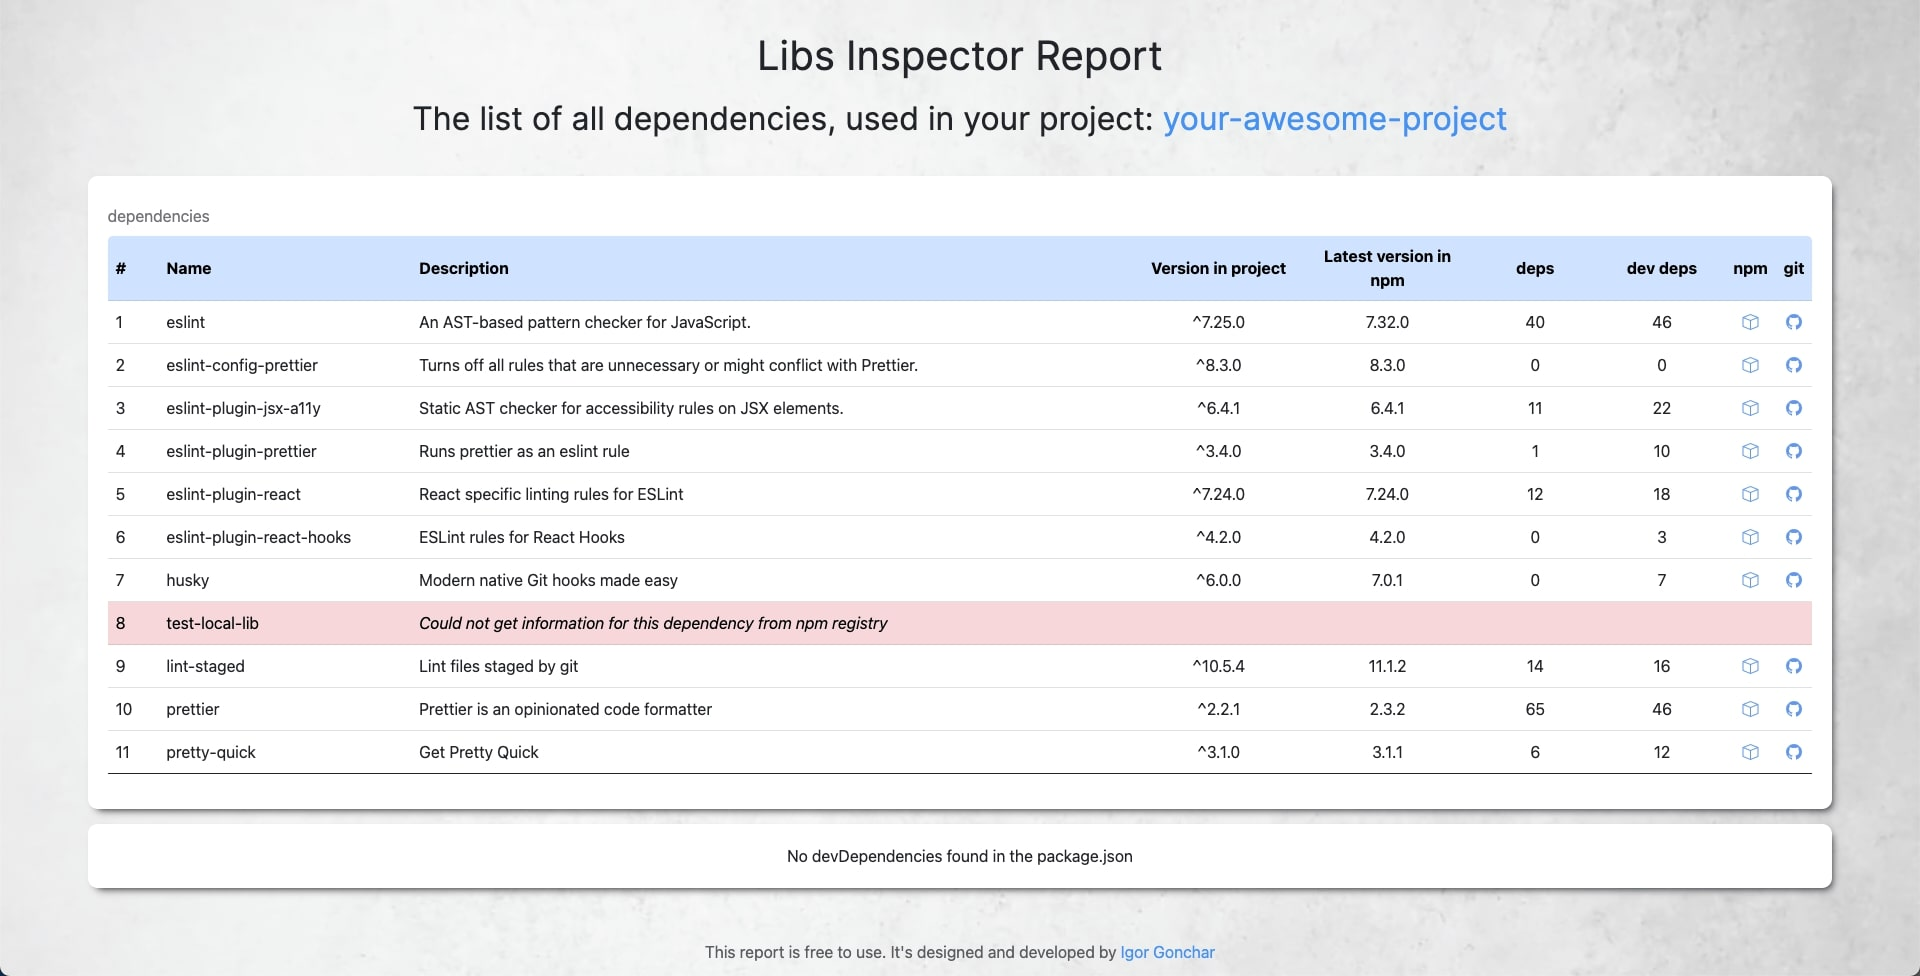
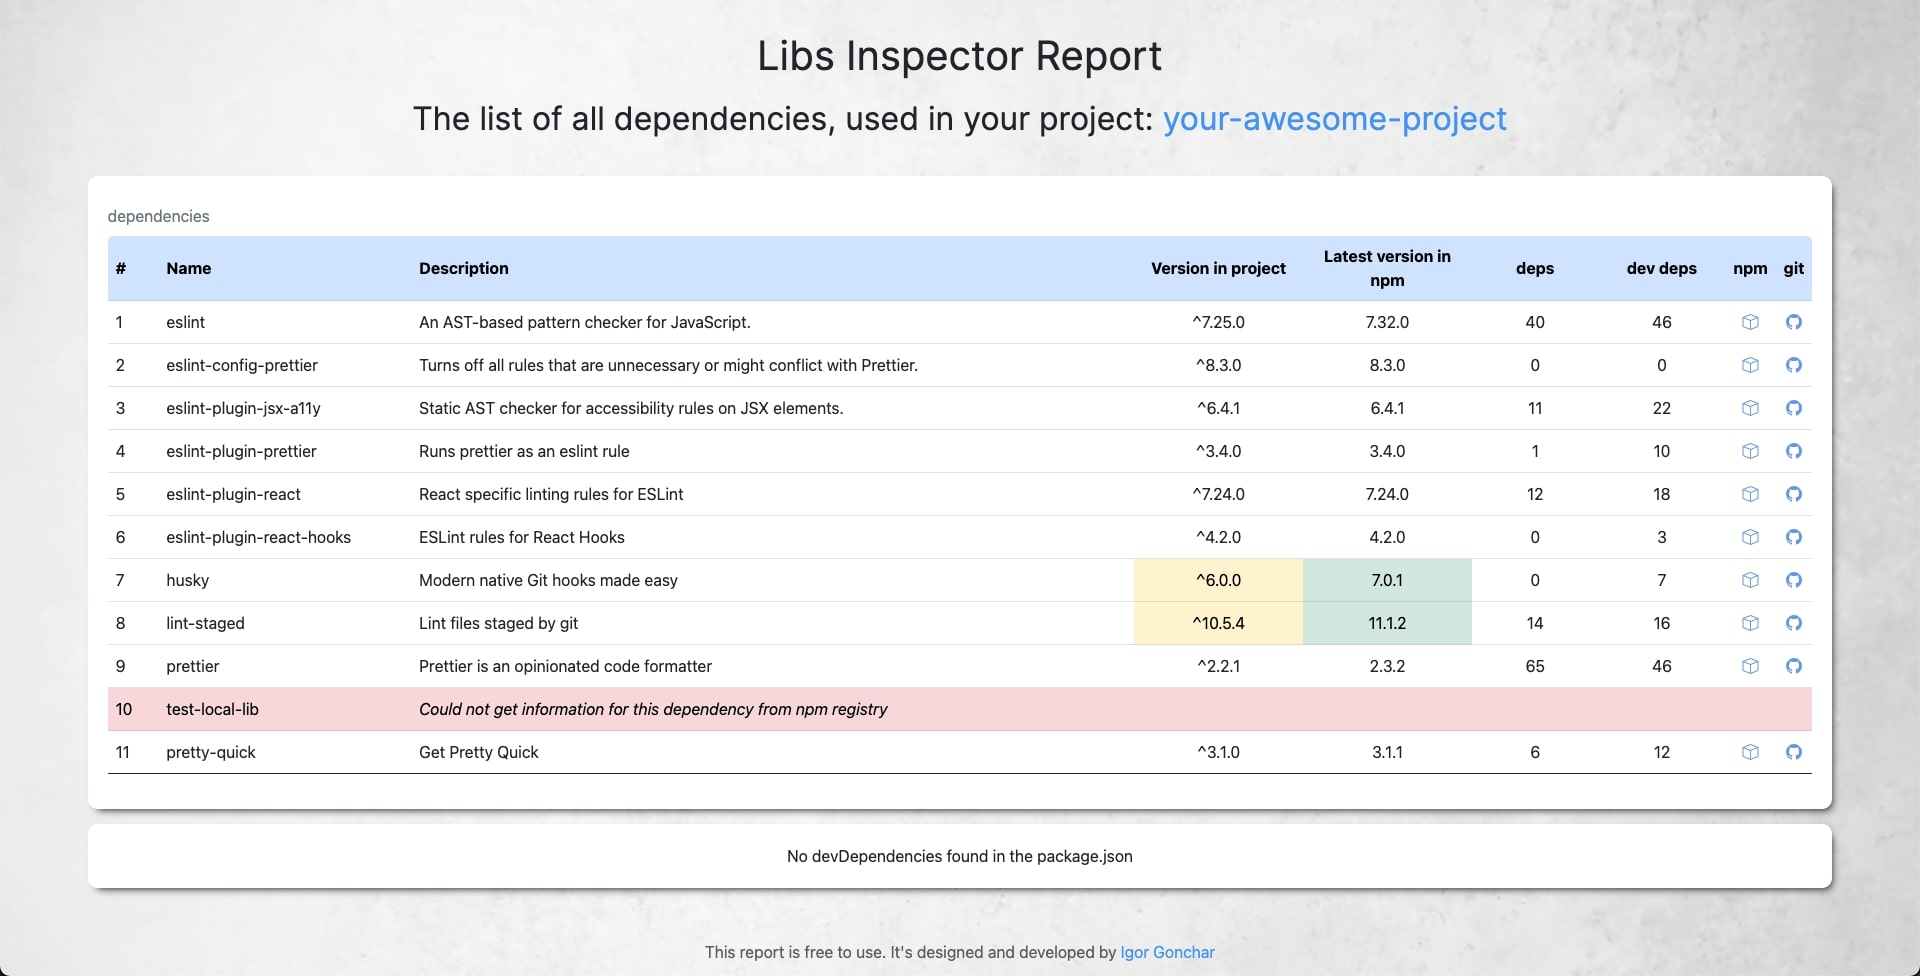
semver comparison was added

Changed region(s): [[0.0312, 0.5533, 0.9688, 0.7684]]

diff --git a/example/report.js b/example/report.js
@@ -1,4 +1,5 @@
 const localJsonFile = "./example/data.json";
+const semverRegExp = /^([\^~])?(0|[1-9]\d*)\.(0|[1-9]\d*)\.(0|[1-9]\d*)(?:-((?:0|[1-9]\d*|\d*[a-zA-Z-][0-9a-zA-Z-]*)(?:\.(?:0|[1-9]\d*|\d*[a-zA-Z-][0-9a-zA-Z-]*))*))?(?:\+([0-9a-zA-Z-]+(?:\.[0-9a-zA-Z-]+)*))?$/;
 
 window.addEventListener("DOMContentLoaded", async () => {
     const tooltipTriggerList = [].slice.call(document.querySelectorAll('[data-bs-toggle="tooltip"]'))
@@ -76,6 +77,13 @@ function insertTableRow(table, dependencyName, dependencyData, index) {
         cell3.innerHTML = dependencyData.description;
         cell4.innerHTML = dependencyData.usedVersion;
         cell5.innerHTML = dependencyData.latestVersion;
+
+        const isMajorVersionOutdated = compareSemverVersions(dependencyData.usedVersion, dependencyData.latestVersion);
+        if (isMajorVersionOutdated) {
+            cell4.classList.add('table-warning');
+            cell5.classList.add('table-success');
+        }
+
         cell6.innerHTML = getDependenciesAmount(dependencyData.dependencies);
         cell7.innerHTML = getDependenciesAmount(dependencyData.devDependencies);
         cell8.innerHTML = `<a href="${dependencyData.links.npm}" target="_blank"><i class="bi bi-box" style="color: cornflowerblue; cursor: pointer"></i></a>`;
@@ -97,4 +105,22 @@ function getDependenciesAmount(dependencies) {
     }
 
     return Object.keys(dependencies).length.toString();
+}
+
+function compareSemverVersions(userPackage, globalPackage) {
+    const isUserPackageValidSemver = checkValidityOfSemver(userPackage);
+    const isGlobalPackageValidSemver = checkValidityOfSemver(globalPackage);
+
+    if (!isUserPackageValidSemver || !isGlobalPackageValidSemver) {
+        return null;
+    }
+
+    const userPackageMajorVersion = userPackage.split('.')[0].replace(/[^\d.-]/g, '');
+    const globalPackageMajorVersion = globalPackage.split('.')[0].replace(/[^\d.-]/g, '');
+
+    return +userPackageMajorVersion < +globalPackageMajorVersion;
+}
+
+function checkValidityOfSemver(version) {
+    return semverRegExp.test(version);
 }

diff --git a/libs-inspector-report/report.js b/libs-inspector-report/report.js
@@ -1,4 +1,5 @@
 const localJsonFile = "./data.json";
+const semverRegExp = /^([\^~])?(0|[1-9]\d*)\.(0|[1-9]\d*)\.(0|[1-9]\d*)(?:-((?:0|[1-9]\d*|\d*[a-zA-Z-][0-9a-zA-Z-]*)(?:\.(?:0|[1-9]\d*|\d*[a-zA-Z-][0-9a-zA-Z-]*))*))?(?:\+([0-9a-zA-Z-]+(?:\.[0-9a-zA-Z-]+)*))?$/;
 
 window.addEventListener("DOMContentLoaded", async () => {
     const tooltipTriggerList = [].slice.call(document.querySelectorAll('[data-bs-toggle="tooltip"]'))
@@ -76,6 +77,13 @@ function insertTableRow(table, dependencyName, dependencyData, index) {
         cell3.innerHTML = dependencyData.description;
         cell4.innerHTML = dependencyData.usedVersion;
         cell5.innerHTML = dependencyData.latestVersion;
+
+        const isMajorVersionOutdated = compareSemverVersions(dependencyData.usedVersion, dependencyData.latestVersion);
+        if (isMajorVersionOutdated) {
+            cell4.classList.add('table-warning');
+            cell5.classList.add('table-success');
+        }
+
         cell6.innerHTML = getDependenciesAmount(dependencyData.dependencies);
         cell7.innerHTML = getDependenciesAmount(dependencyData.devDependencies);
         cell8.innerHTML = `<a href="${dependencyData.links.npm}" target="_blank"><i class="bi bi-box" style="color: cornflowerblue; cursor: pointer"></i></a>`;
@@ -97,4 +105,22 @@ function getDependenciesAmount(dependencies) {
     }
 
     return Object.keys(dependencies).length.toString();
+}
+
+function compareSemverVersions(userPackage, globalPackage) {
+    const isUserPackageValidSemver = checkValidityOfSemver(userPackage);
+    const isGlobalPackageValidSemver = checkValidityOfSemver(globalPackage);
+
+    if (!isUserPackageValidSemver || !isGlobalPackageValidSemver) {
+        return null;
+    }
+
+    const userPackageMajorVersion = userPackage.split('.')[0].replace(/[^\d.-]/g, '');
+    const globalPackageMajorVersion = globalPackage.split('.')[0].replace(/[^\d.-]/g, '');
+
+    return +userPackageMajorVersion < +globalPackageMajorVersion;
+}
+
+function checkValidityOfSemver(version) {
+    return semverRegExp.test(version);
 }

diff --git a/index.html b/index.html
@@ -7,7 +7,7 @@
 
     <title>Libs Inspector</title>
     <meta name="description"
-          content="Libs Inspector - is a UI representation of all dependencies in your package.json with their description">
+          content="Libs Inspector - is a UI report of all dependencies in your package.json with their description">
     <meta name="keywords" content="javascript,library,libs inspector, dependencies">
     <meta name="author" content="Igor Gonchar">
 
@@ -17,7 +17,7 @@
     <meta property="og:url" content="https://github.com/GoncharIgor/libs-inspector"/>
     <meta
             property="og:description"
-            content="Libs Inspector - is a UI representation of all dependencies in your package.json with their description"
+            content="Libs Inspector - is a UI report of all dependencies in your package.json with their description"
     />
     <meta property="og:image" content="https://github.com/GoncharIgor/libs-inspector/blob/master/example/demo.jpg?raw=true" />
     <meta property="og:image:secure_url" content="https://github.com/GoncharIgor/libs-inspector/blob/master/example/demo.jpg?raw=true" />

diff --git a/libs-inspector-report/index.html b/libs-inspector-report/index.html
@@ -7,7 +7,7 @@
 
     <title>Libs Inspector</title>
     <meta name="description"
-          content="Libs Inspector - is a UI representation of all dependencies in your package.json with their description">
+          content="Libs Inspector - is a UI report of all dependencies in your package.json with their description">
     <meta name="keywords" content="javascript,library,libs inspector, dependencies">
     <meta name="author" content="Igor Gonchar">
 

diff --git a/README.md b/README.md
@@ -1,12 +1,12 @@
 # libs-inspector
 
 <!--- [![GitHub Stars](https://img.shields.io/github/stars/GoncharIgor/libs-inspector.svg)](https://github.com/GoncharIgor/libs-inspector/stargazers) --->
-[![Current Version](https://img.shields.io/badge/version-0.0.7-green.svg)](https://github.com/GoncharIgor/libs-inspector)
+[![Current Version](https://img.shields.io/badge/version-0.0.8-green.svg)](https://github.com/GoncharIgor/libs-inspector)
 ![MIT license](https://img.shields.io/github/license/mashape/apistatus.svg)
 
 ## What is it
 
-This is a UI representation of all dependencies in your package.json with their description
+This is a UI report of all dependencies in your package.json with their description
 
 ## Demo
 
@@ -39,10 +39,10 @@ e.g:
 - If your project doesn't have devDependencies, then it will be written in empty block
 - Information for each dependency is being retrieved from: https://npms.io
 - If the dependency info couldn't be got from `npms.io`, then the row is highlighted in red
+- When package version can be updated to new major version, its cell is highlighted
 
 
 ## Next features to come
-- Highlight the packages, whose major versions should be updated
 - collapsible tables for better UX
 
 
